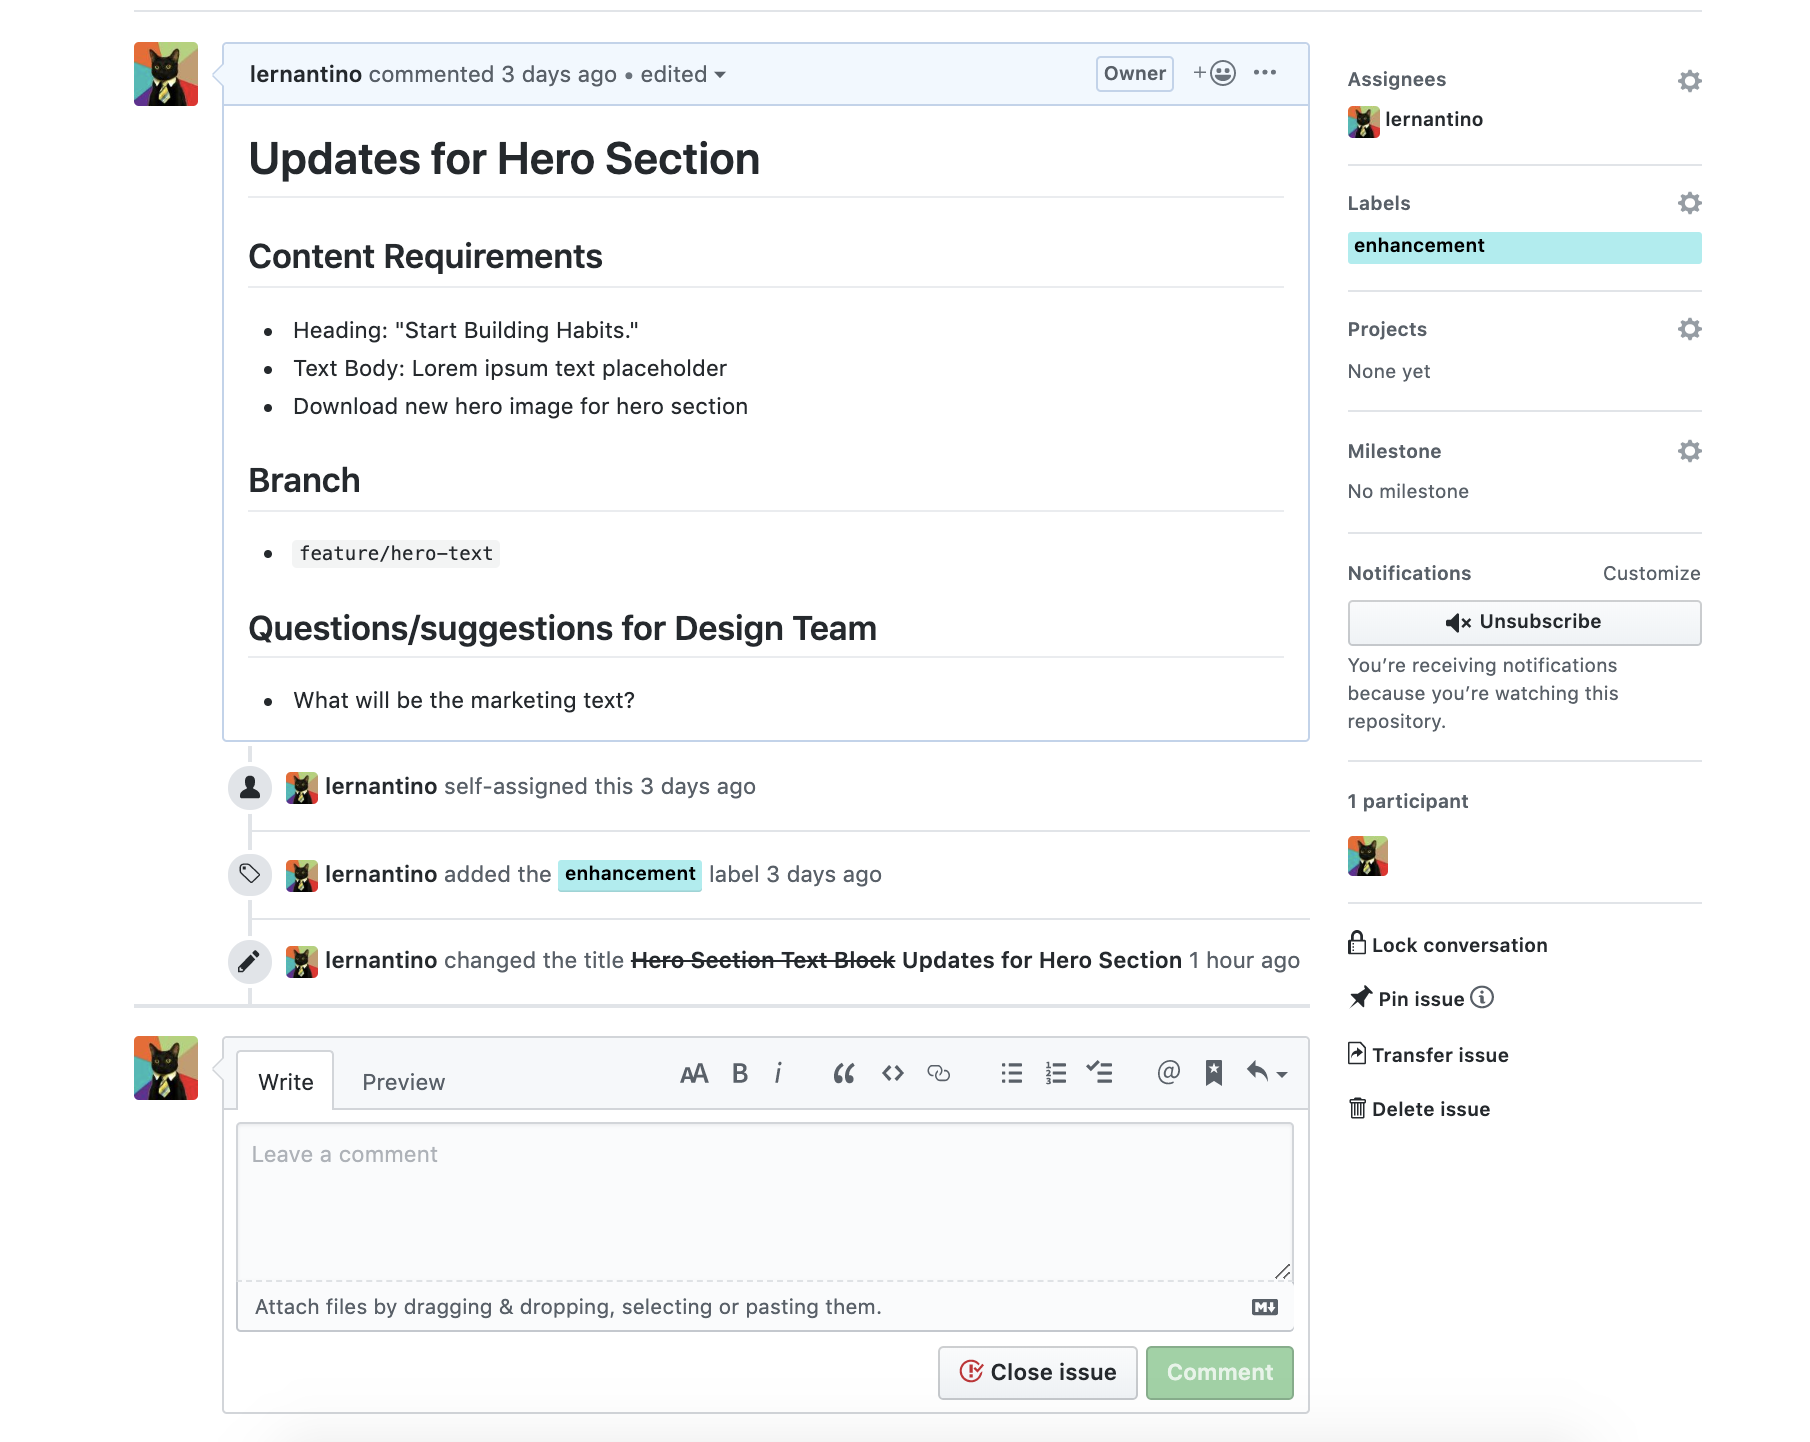
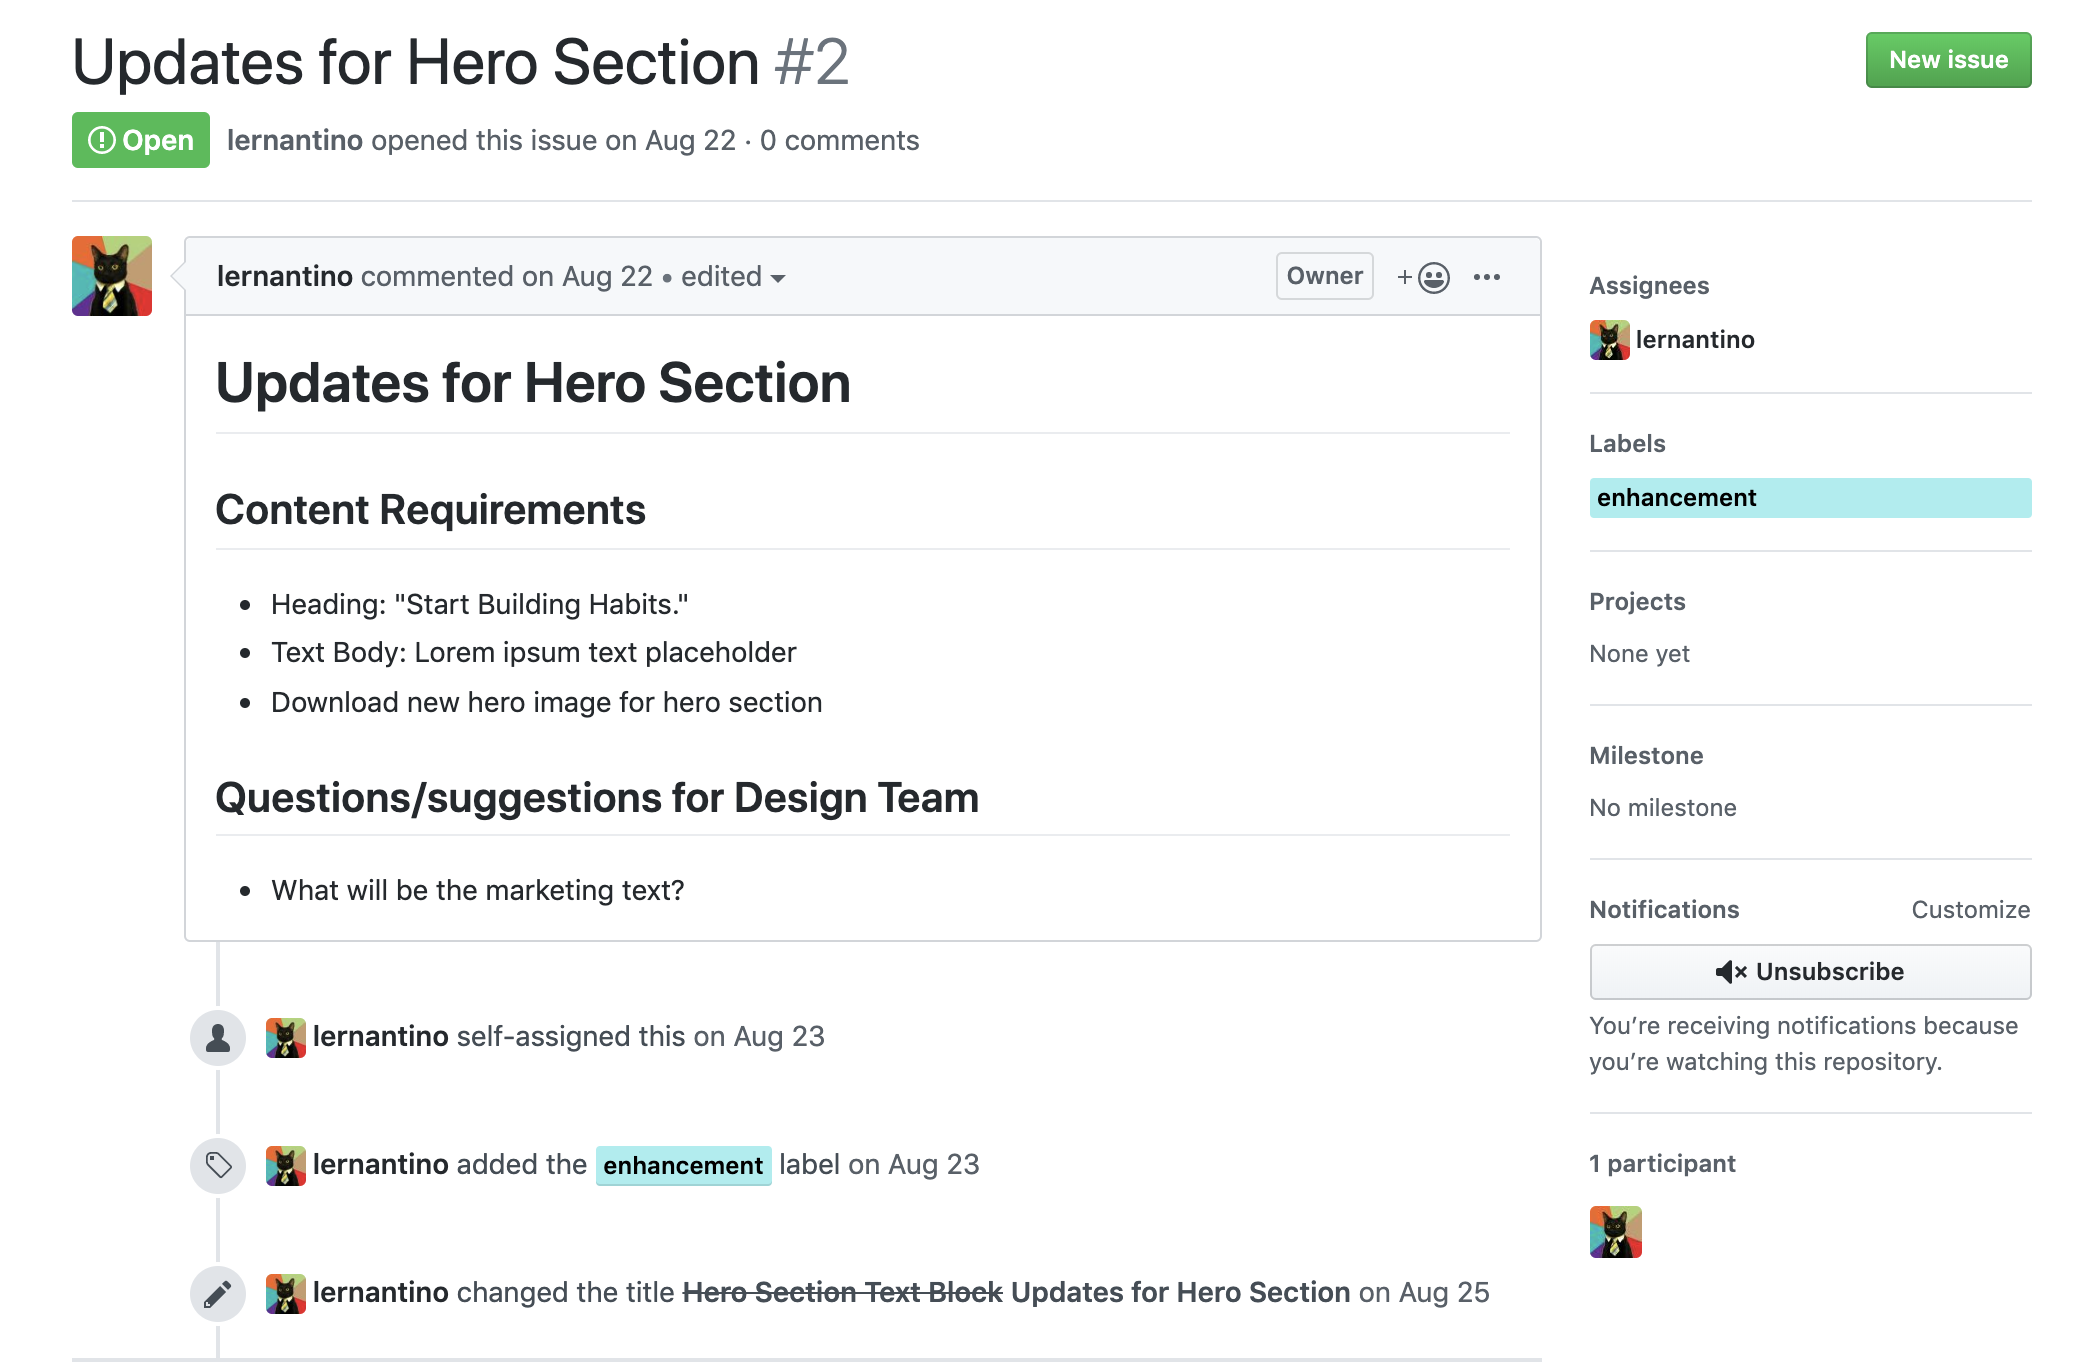
copyedit integration

diff --git a/02-css/content/lesson-1-git_workflow.md b/02-css/content/lesson-1-git_workflow.md
@@ -8,8 +8,6 @@ Here's the mock-up for Run Buddy version 2.0, which we'll build over the course 
 
 ![version_2.0-mock-up](assets/lesson-1/001-version2-mock-up-main.jpg)
 
-Notice that there are some large changes we are planning to make, like the addition of the price comparison table, and some that are a bit more subtle, like the rounded corners of our input fields and the Call-To-Action form container. Some of the changes are not visible at all since they are contingent on user interaction. So let's first get our development environment set up before we proceed.
-
 Because the current codebase is live, we can't make changes directly to it without disturbing Run Buddy's users. We need a workflow that will let us work on a copy of the website code and then merge the changes into the live site. This is where our friend Git comes back into play.
 
 In this lesson, we'll learn about three important software development workflow concepts:
@@ -125,8 +123,6 @@ Let's go ahead and create a `README.md` file for our repo.
 
 > **Video:** [Creating a `README.md` file in GitHub - JIRA FSFO-107](https://trilogyed.atlassian.net/jira/software/projects/FSFO/boards/197/backlog?selectedIssue=FSFO-107)
 
-Go to our repo in Github and select the Add a README button. This will lead to our form which we can fill out with the following Markdown.
-
 Here's what your raw Markdown file should look like:
 
 ```markdown
@@ -236,7 +232,7 @@ git status
 
 Remember that this command verifies if our active branch is "clean," which means that any changed files in the branch have been staged and committed. If the branch is not clean, then you must `add` and `commit` the file changes first. 
 
-> **Urkel Says:** So what is all this talk about branches and trees, you might ask. They are simply terms that visually express the folder hierarchy of directories and the version control process of Git.
+So what is all this talk about branches and trees, you might ask. They are simply terms that visually express the folder hierarchy of directories and the version control process of Git.
 
 Now that we have a clean working tree, we're ready to `pull` or update the local branch by downloading any new changes or commits that are in the remote branch. 
 
@@ -510,13 +506,12 @@ From there, we can create a new issue by clicking on the green "New issue" butto
 > 1) Click on Issues tab
 > 2) Click on New Issue button
 >![Git Issue Tab](assets/lesson-1/800-git-issues-github.png)
-> 3) Git Issue Title - Normally descriptive naming the enhancement or fix. In our case we will type Hero Section Text Block
-> 4) Git Issue Comment - Can contain requirements of the feature or issue that is being fixed. Even adding mock-ups or design requirements are common. 
+> 3) Git Issue Title - A descriptive name with the issue type such as an enhancement or fix. In our case we will type "Hero Section Text Block"
+> 4) Git Issue Comment - Can contain requirements of the feature or issue that is being fixed. Even adding mock-ups or design requirements are common. For bugs, often there are descriptions of the current state vs the desired state as well as steps to reproduce the bug.
 
+Here is an example of the raw Markdown:
 
-Here is the text of an issue (using Markdown) requesting that we add formatting blocks to organize the requirements:
-
-```markdown
+<!-- ```markdown
 
 # Hero Section Text Block 
 
@@ -524,18 +519,15 @@ Here is the text of an issue (using Markdown) requesting that we add formatting 
 * Heading: "Start Building Habits"
 * Text Body: `<p>` Lorem ipsum text placeholder
 
-## Branch Name
-* `feature/hero-text`
-
 ## Questions/suggestions for Design Team
 * What will be the marketing text?
-```
-
-The Branch Name section indicates the branch where this issue should be developed. The naming convention for feature branches is something typically agreed upon by your development or management team. Good choices include the type of branch and branch's purpose like `feature/[feature-name]` or `[issue-number]/[feature-name]`. 
-
+``` -->
+<!-- 
+The Branch Name section indicates the branch where this issue should be developed. The naming convention for feature branches is something typically agreed upon by your development or management team. Good choices include the type of branch and branch's purpose like `feature/[feature-name]` or `[issue-number]/[feature-name]`.  -->
+<!-- 
 Type a comment using Markdown to outline the feature's requirements and other information related to this task.
 
-Here is a simple example: 
+Here is a simple example:  -->
 
 ```markdown
 
@@ -546,13 +538,10 @@ Here is a simple example:
 * Text Body: Lorem ipsum text placeholder
 * Download new hero image for hero section
 
-## Branch
-* `feature/hero-text`
-
 ## Questions/suggestions for Design Team
 * What will be the marketing text?
 ```
-Other formatting options include checkboxes, code blocks, and the ability to mention a team member(s) using their GitHub handle with the "@" notation.
+Other formatting options we can add to this issue includes checkboxes, code blocks, and the ability to mention a team member(s) using their GitHub handle with the "@" notation.
 
 Notice on the right side panel, there are options to add labels or team member assignments. Let's add the Enhancement label to the `hero-text` issue now and assign it to ourselves. To do that, follow these steps:
 
@@ -582,9 +571,6 @@ Go ahead and create a new Git issue for this feature. The finished issue should 
 * Heading:  "Contact Us"
 * Name: Input Text field
 * Message: Large message area
-
-## Branch
-* `feature/contact-form`
 ```
 
 The following image shows how the issue should appear in GitHub: 
